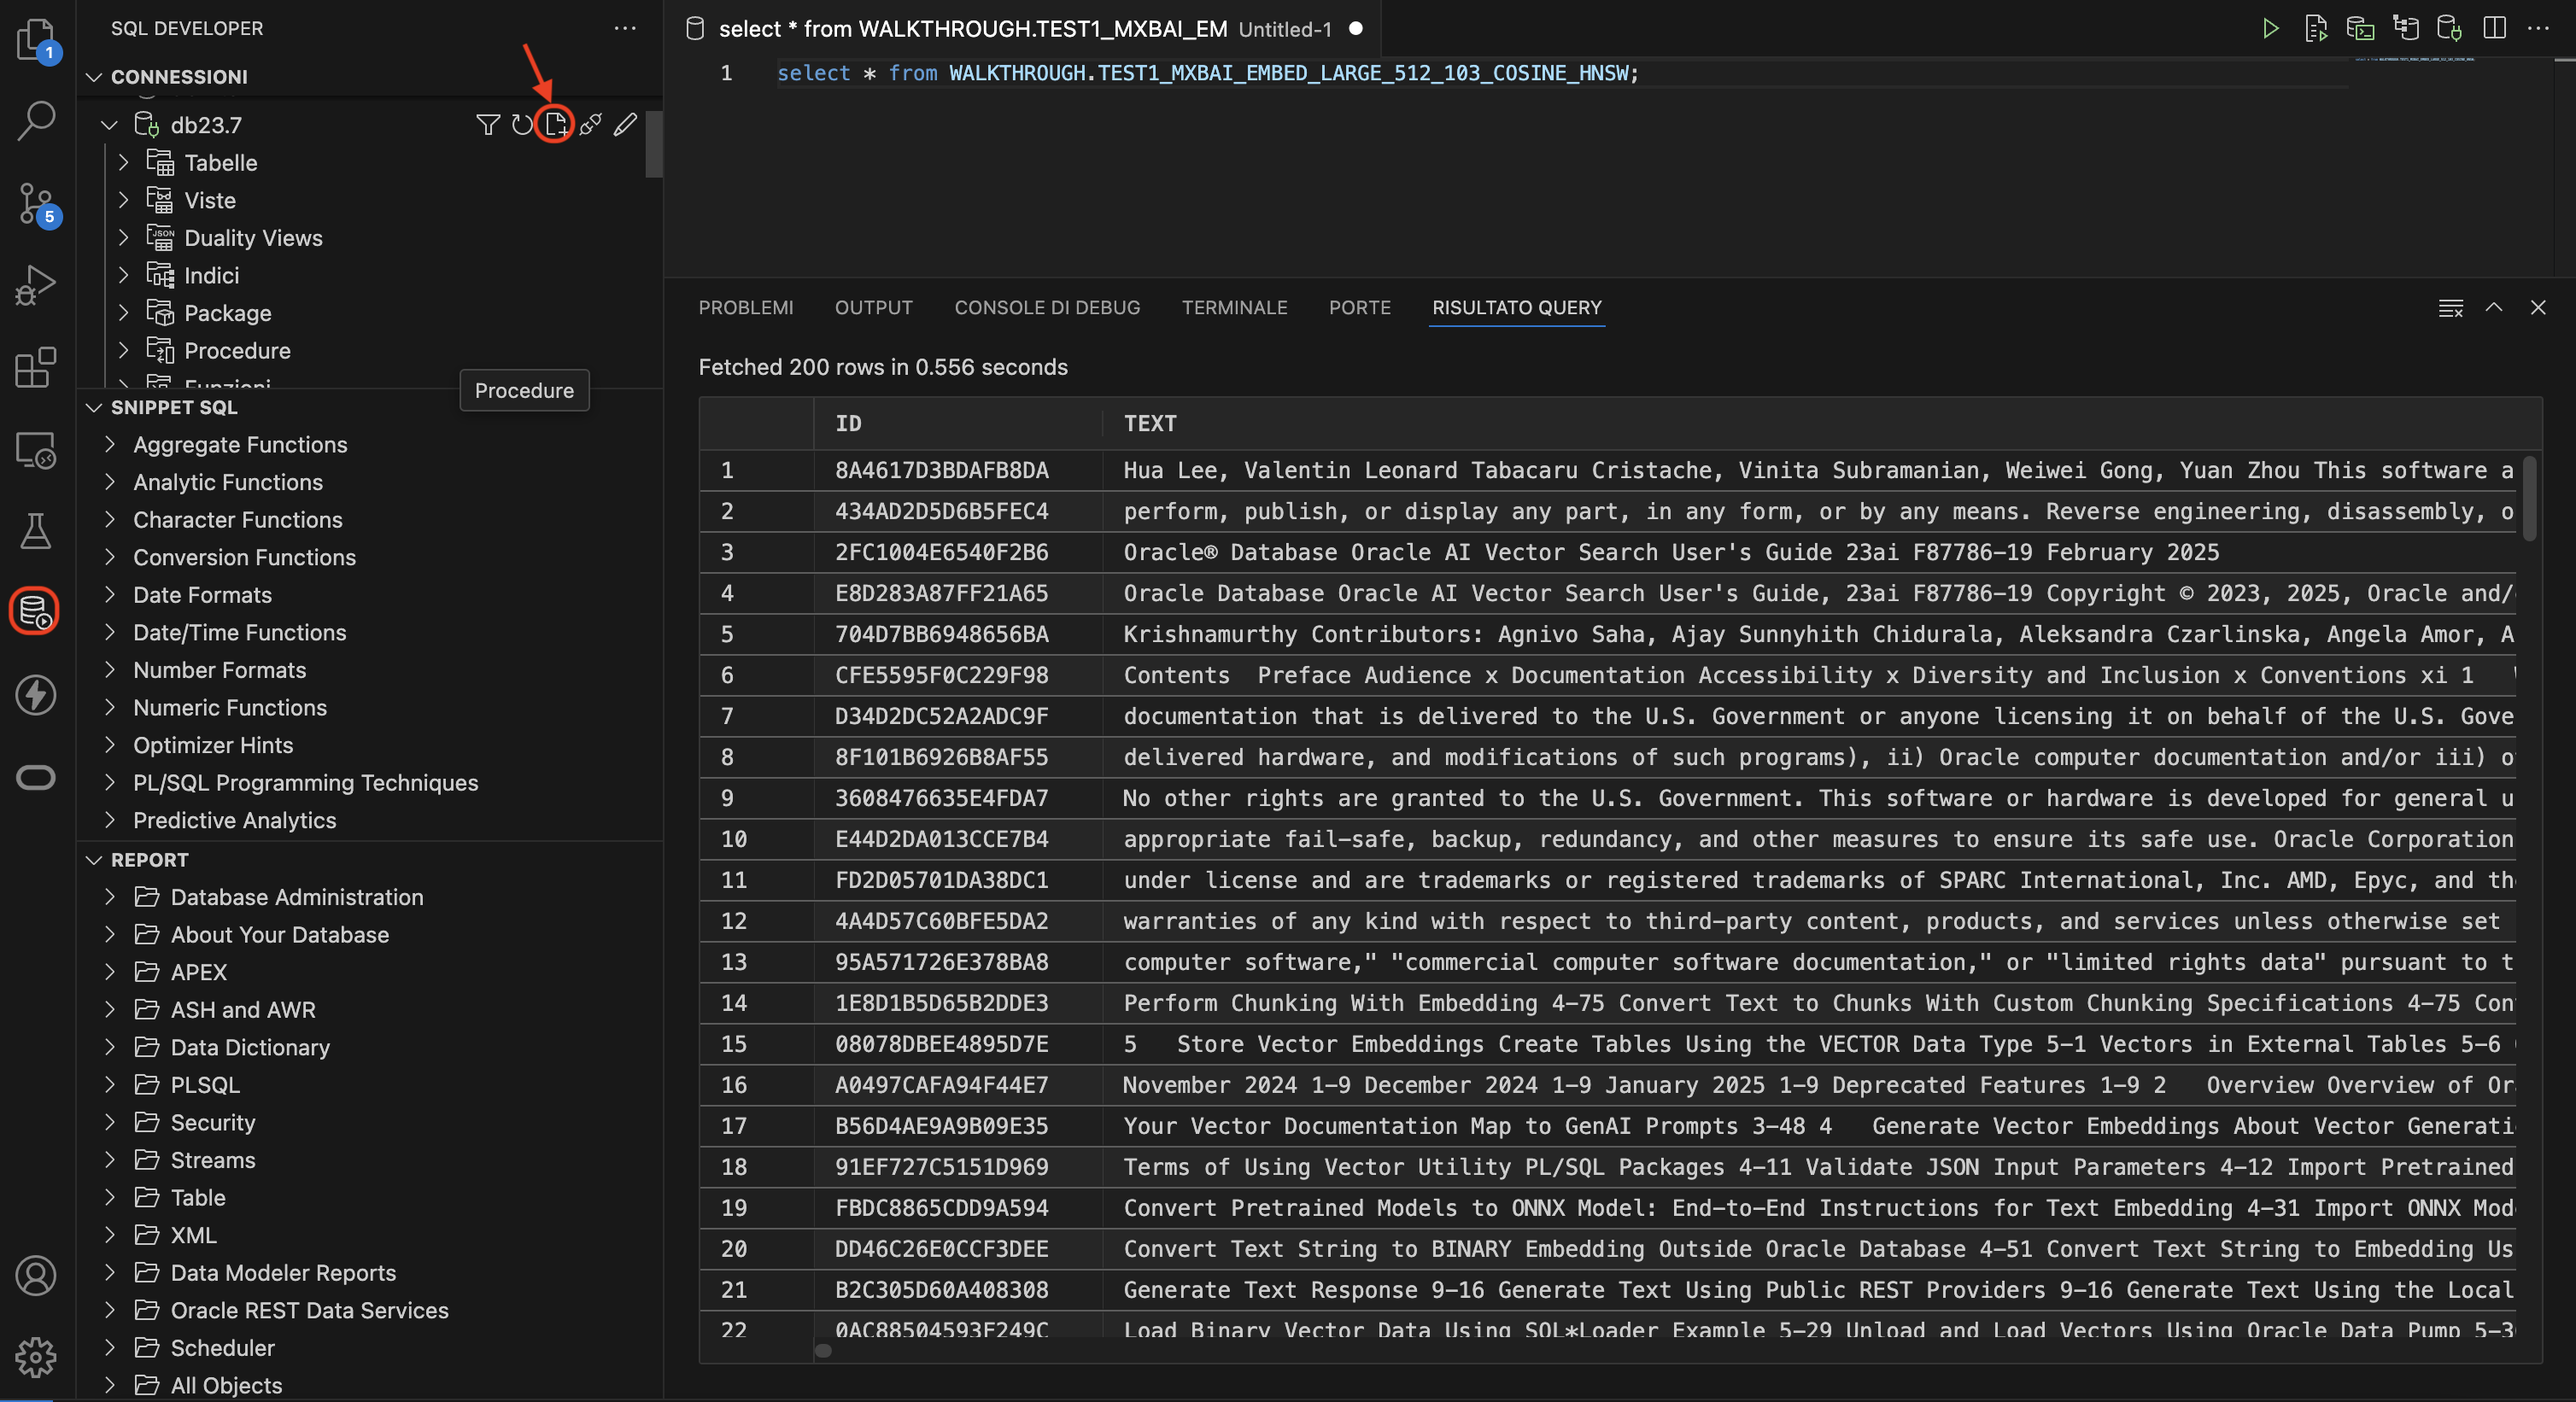
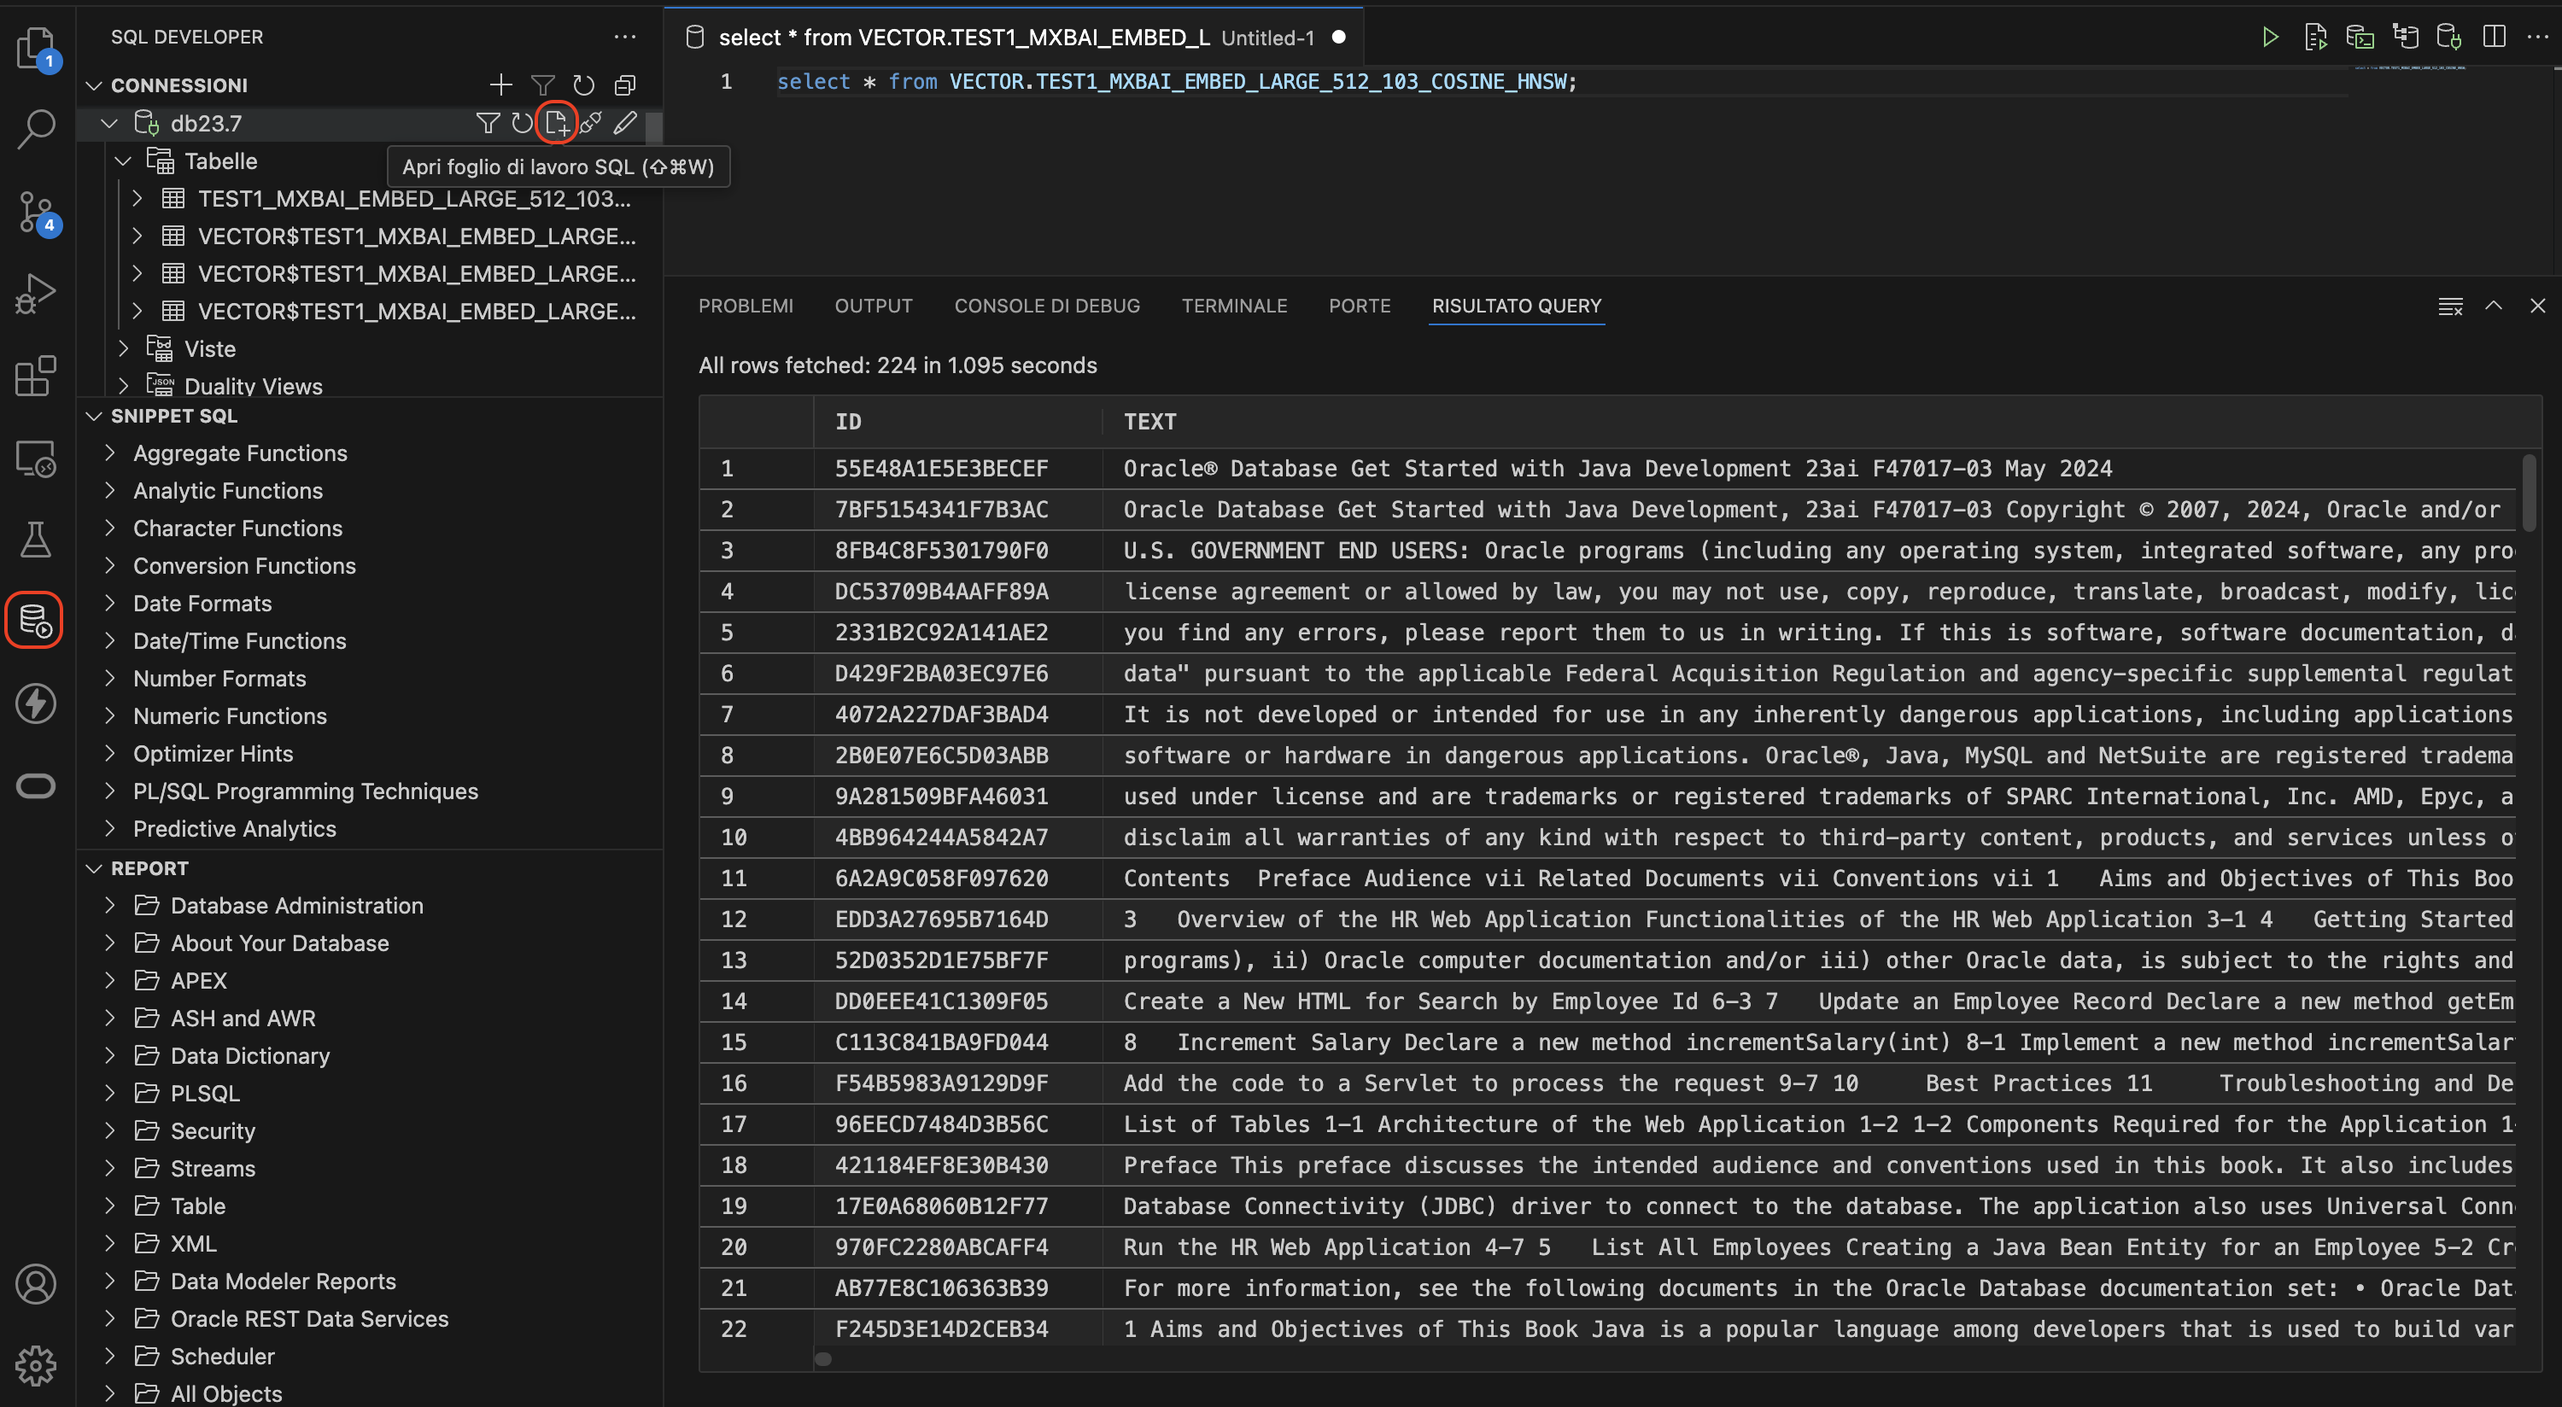
Split/embed updated

diff --git a/hol/SPLIT-EMBED.md b/hol/SPLIT-EMBED.md
@@ -20,7 +20,7 @@ You can choose from three different file sources:
 * **Local**: Upload a document directly from your local environment.
 * **Web**: Import a document from a publicly accessible web URL.
 
-In this example, we will embed a document from the web, available at [this link](https://docs.oracle.com/en/database/oracle/oracle-database/23/vecse/ai-vector-search-users-guide.pdf).
+In this example, we will embed a document from the web, available at [this link](https://docs.oracle.com/en/database/oracle/oracle-database/23/tdpjd/get-started-java-development.pdf).
 
 You can then click on the **Populate Vector Store** button and start the embedding process.
 
@@ -28,7 +28,7 @@ Once the process is complete, a green confirmation prompt will appear, indicatin
 
 ![vector-store-populated](images/vector-store-populated.png)
 
-This means that 2927 vectors representations of the information from the input document have been created and stored.
+This means that 224 vectors representations of the information from the input document have been created and stored.
 
 As an example, you can query the vector store by connecting to your Oracle Database 23ai using the SQL Developer plugin we mentioned earlier:
 
@@ -37,10 +37,14 @@ As an example, you can query the vector store by connecting to your Oracle Datab
 Then, you can retrieve the rows from the newly created table with this command:
 
 ```sql 
-select * from WALKTHROUGH.TEST1_MXBAI_EMBED_LARGE_512_103_COSINE_HNSW;
+select * from VECTOR.TEST1_MXBAI_EMBED_LARGE_512_103_COSINE_HNSW;
 ```
 
 What you see in the image above are chunks of text from the input document, which have been transformed into vector format and stored in the Oracle database. Essentially, you’ve replicated the knowledge contained in the document within your database!
+
+By following the sames steps, we can creat another vector store using the same document but with a different embedding model, *text-embedding-3-small* from the OpenAI models. In this case, we will get a smaller number of chunks, since the model supports a chunk size of 8191 instead of the 512 given by *mxbai-embed-large*:
+
+![text-embedding-3-small](images/text-embedding-3-small.png)
 
 You can now navigate to the Database tab in the AI Explorer to see the list of all the vector stores that have been created. If needed, you can easily delete them with a single click.
 
